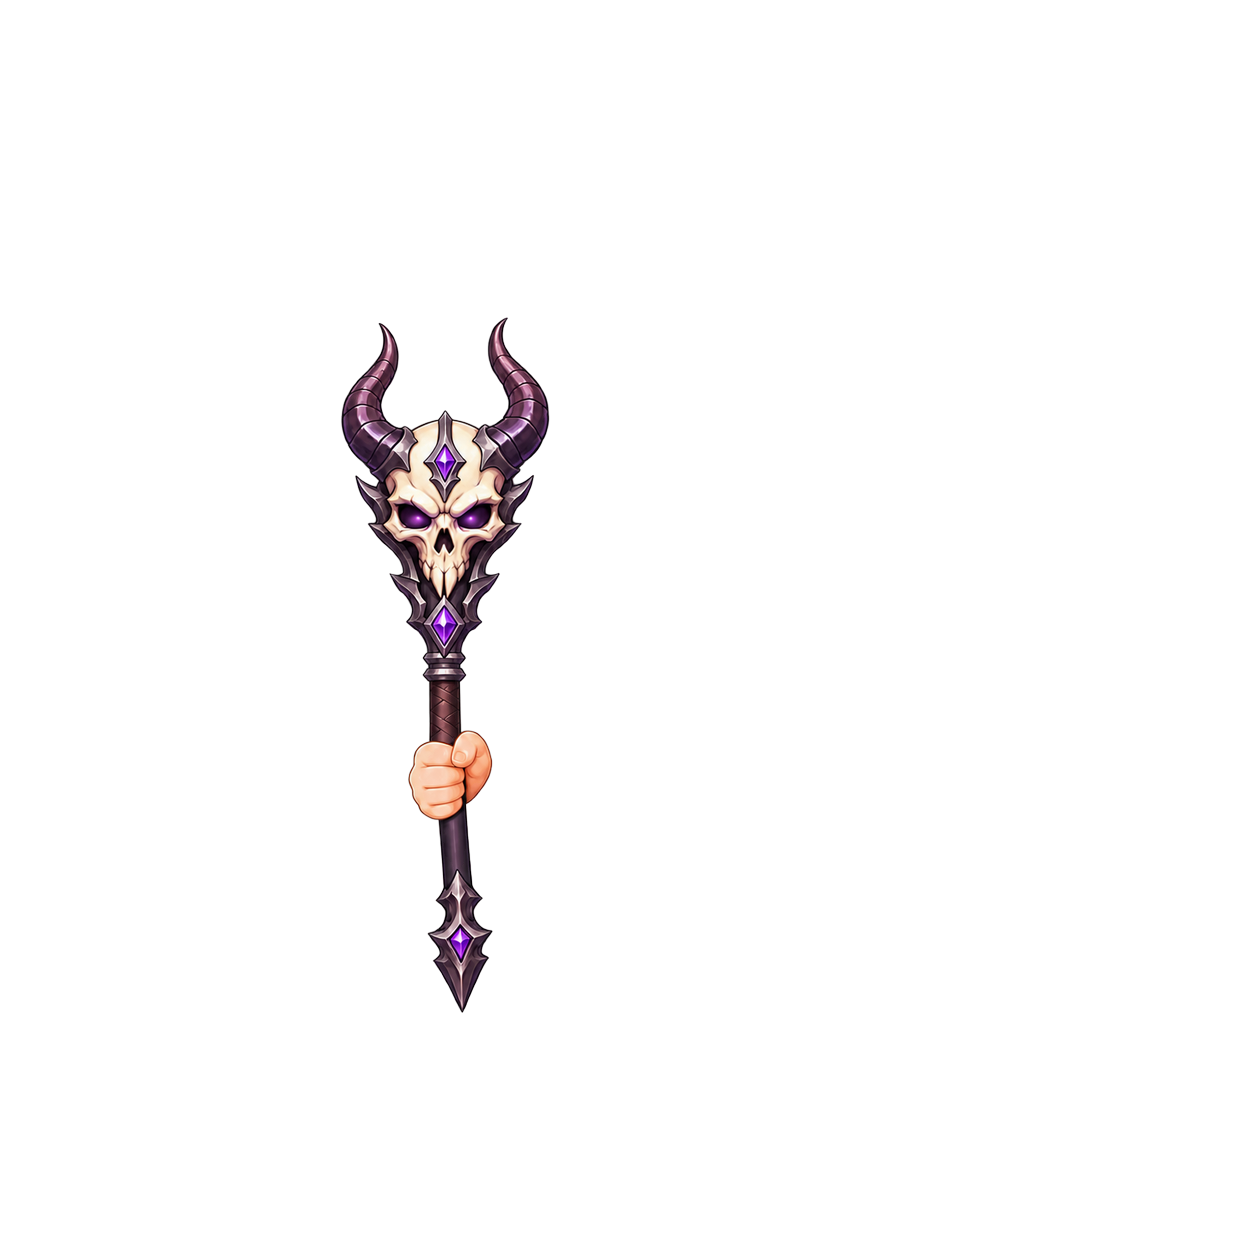
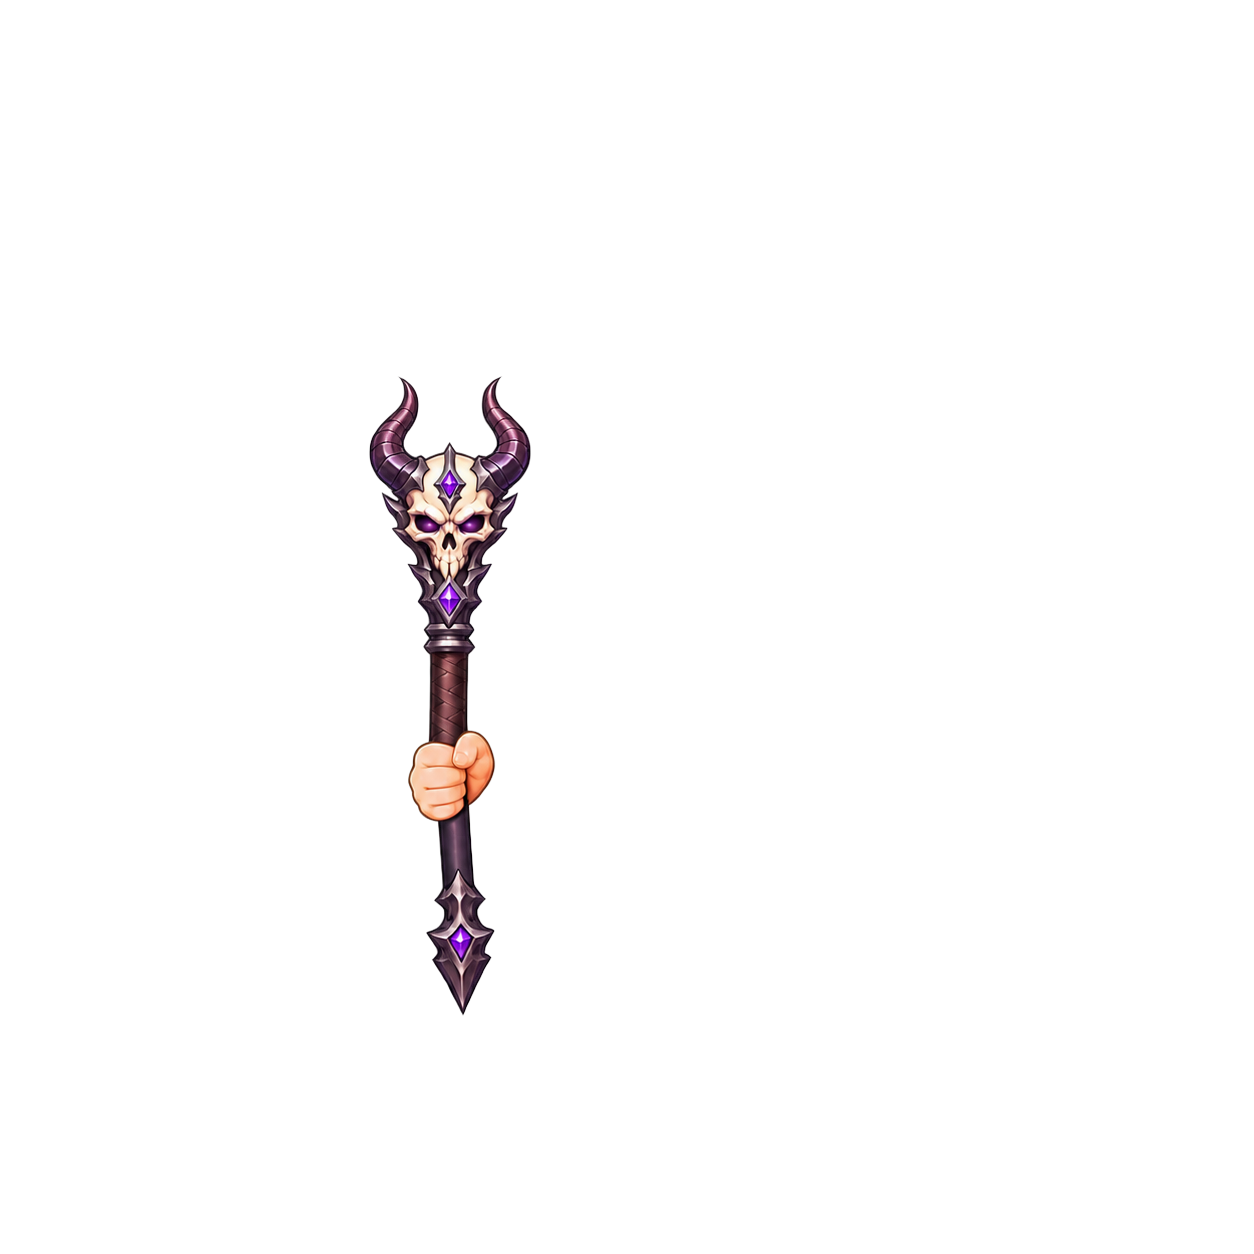
Clear horned scepter from eye window with compact in-hand art

Changed region(s): [[0.2488, 0.2488, 0.4354, 0.8086]]

diff --git a/scripts/register_in_hand_objects.py b/scripts/register_in_hand_objects.py
@@ -120,6 +120,16 @@ QA_PASS_0927 = {
         "hand_object_010": ("010_horned_skull_scepter.png", 2, (623.6, 863.6), 98, 0.76, (-34, 116)),
     },
 }
+QA_COMPACT_1001 = {
+    "decided_on": "2026-10-01",
+    "qa_report": "docs/qa/hand_object_010_compact_2026-10-01.md",
+    "qa_composite": "docs/qa/compact_scepter_2026-10-01.png",
+    "prompt": "prompts/hand_objects_in_hand_pack_2026-09-27.md",
+    "items": {
+        # Native 1254 render already aligned to the registered pose-002 fist.
+        "hand_object_010": ("010_compact_skull_source.png", 2, (440.9, 773.2), 75, 1.0, (0, 0)),
+    },
+}
 
 # Batches fitted with scripts/fit_in_hand_render.py, applied in order after round 1.
 BATCHES = [
@@ -131,6 +141,7 @@ BATCHES = [
     {"folder": SOURCES, **QA_0927, "items": ROUND1_REFIT_0927},
     {"folder": ROUND2, **QA_0927, "items": ROUND2_REFIT_0927},
     {"folder": ROOT / "images" / "trait_candidates" / "hand_objects" / "in_hand_2026-09-27-pass", **QA_PASS_0927},
+    {"folder": ROOT / "images" / "trait_candidates" / "hand_objects" / "in_hand_2026-10-01-scepter", **QA_COMPACT_1001},
 ]
 
 

diff --git a/docs/qa/hand_object_010_compact_2026-10-01.md b/docs/qa/hand_object_010_compact_2026-10-01.md
@@ -1,0 +1,31 @@
+# Compact horned scepter 010 — 2026-10-01
+
+The previously registered skull and horned head covered 1,359 opaque pixels
+in the fixed viewer-left eye window `(505,334)–(584,403)`. The owner asked for
+the foreground traits to be reviewed after the depth batch. A new native
+1254 × 1254 transparent in-hand candidate narrows the skull while keeping the
+purple gem, curved horns, shaft and wristless gripping hand.
+
+The source is preserved at
+`images/trait_candidates/hand_objects/in_hand_2026-10-01-scepter/010_compact_skull_source.png`
[1 lines of base64/hex data omitted]
+The last batch in `scripts/register_in_hand_objects.py` uses the existing
+`clean_render` and `fit_round2` pipeline at scale 1 and offset `(0,0)`. It
+drops low-alpha detached specks and retains the artist's item geometry.
+
+| Check | Previous | Compact candidate |
+|---|---:|---:|
+| Opaque pixels in eye window | 1,359 | 0 |
+| Exposed base-fist core pixels | 0 | 0 |
+| Exposed base-fist pixels including fringe | 1 | 0 |
+| Output bounds | `(340,317)–(549,1012)` | `(369,375)–(530,1015)` |
+
+The [four-column composite](compact_scepter_2026-10-01.png) shows the item
+over the bare pose 002 and all three compatible dressed outfits (007, 008,
+009). The skull leaves the face clear and the hand remains wrapped around the
+shaft. The black robe's inward pose-002 fist remains excluded from hand
+objects by the existing compatibility rule.
+
+This replacement changes only the registered hand-object PNG, its checksum
+and provenance in the manifest, and the reproducible registration batch. It
+does not restore withdrawn traits or alter the outfit rules.

diff --git a/docs/production_status.md b/docs/production_status.md
@@ -12,10 +12,11 @@ The base-body pose family and all eight backgrounds are registered, and the firs
 
 **Current visual review, 2026-10-01:** all 134 registered files and generator
 checks pass, but five garment-only families still need dressed-body replacements
-across all five poses, the horned scepter needs eye-clearance review and silver
-rear hair needs alpha-edge cleanup. The 72 current variation images have been
+across all five poses, and silver rear hair needs alpha-edge cleanup. The 72 current variation images have been
 rebuilt with stronger foreground masks and exterior-only feathering. See
 [the current review, corrected sheets and full-size exports](qa/review_2026-10-01/README.md).
+The horned scepter's eye overlap was corrected later on 2026-10-01; see
+[its replacement composite and QA](qa/hand_object_010_compact_2026-10-01.md).
 The variations folder's 77 source files comprise 72 current PNGs, four historical
 1024 WebPs and one JPEG reference; they are not 77 current collectible exports.
 

diff --git a/docs/qa/review_2026-10-01/README.md b/docs/qa/review_2026-10-01/README.md
@@ -7,6 +7,10 @@ subsequent mask and ledger corrections recorded in this checkpoint.
 assets were reviewed, but the remaining garment fit defects mean this is not a
 final visual approval of the collection.**
 
+**Later update:** the scepter 010 eye overlap identified below was corrected
+with a [compact in-hand replacement](../hand_object_010_compact_2026-10-01.md).
+The measurements below describe the earlier snapshot.
+
 ## Corrected images
 
 - [Corrected 50-image sheet](random_50_corrected.png) — the same 5-column,
